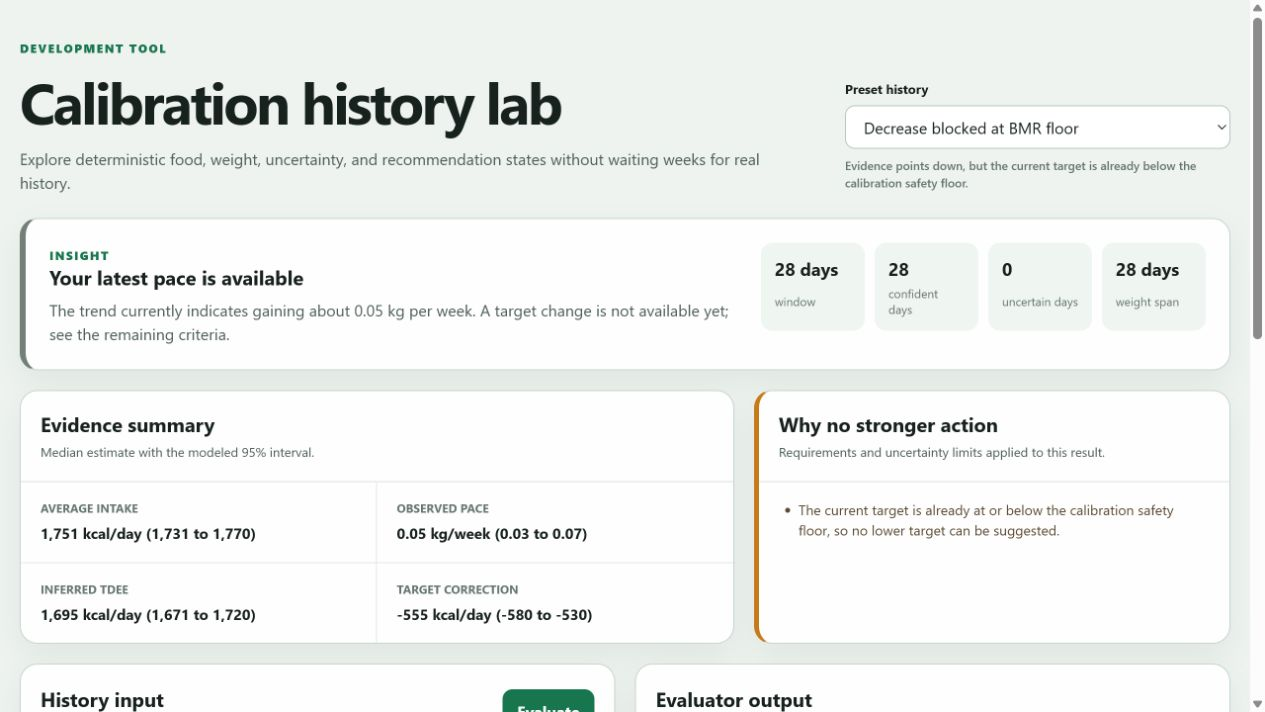
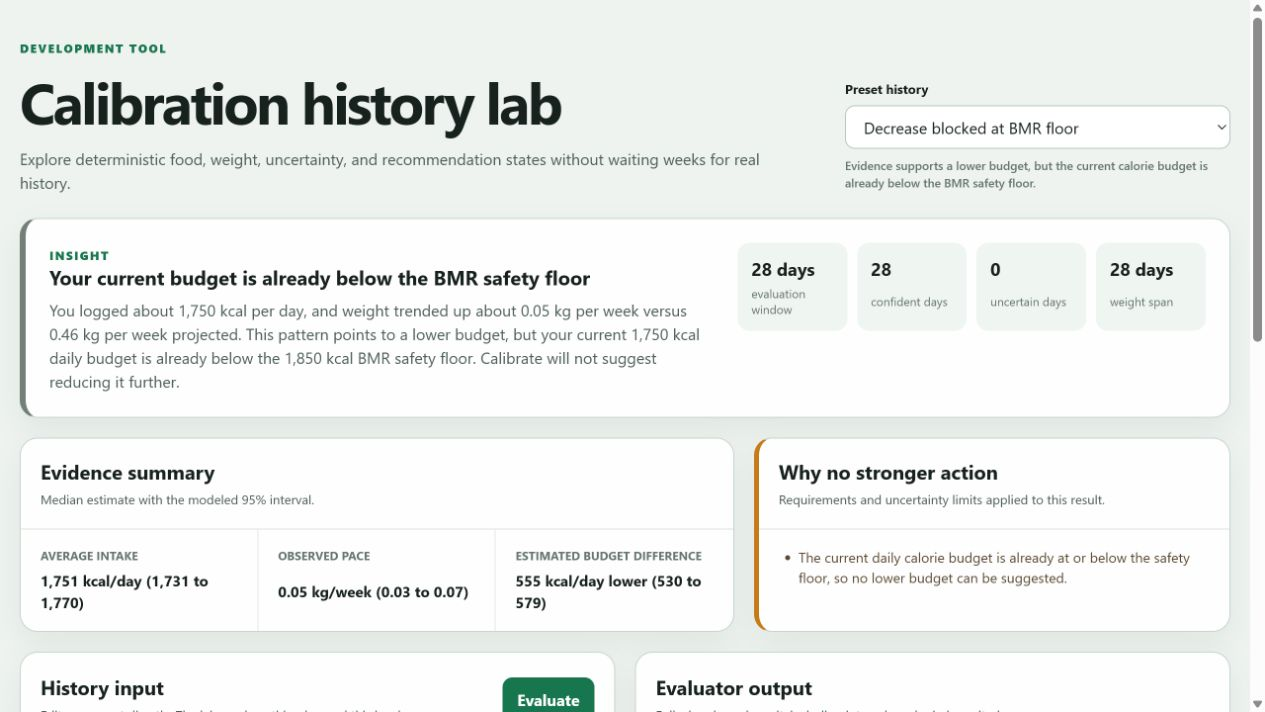
Explain BMR floor blocked insights

diff --git a/shared/calibration.ts b/shared/calibration.ts
@@ -108,6 +108,7 @@ type WindowEvaluation = {
     targetAdjustment: CalibrationInterval | null;
     recommendation: CalibrationRecommendation | null;
     actionable: boolean;
+    safetyFloorBlocked: boolean;
     missingCriteria: string[];
 };
 
@@ -329,6 +330,7 @@ function evaluateWindow(input: CalibrationInput, windowDays: number): WindowEval
             targetAdjustment: null,
             recommendation: null,
             actionable: false,
+            safetyFloorBlocked: false,
             missingCriteria
         };
     }
@@ -362,6 +364,7 @@ function evaluateWindow(input: CalibrationInput, windowDays: number): WindowEval
     const targetAdjustment = interval(adjustmentSamples);
     let recommendation: CalibrationRecommendation | null = null;
     let actionable = false;
+    let safetyFloorBlocked = false;
 
     if (targetAdjustment) {
         const intervalWidth = targetAdjustment.high - targetAdjustment.low;
@@ -384,7 +387,6 @@ function evaluateWindow(input: CalibrationInput, windowDays: number): WindowEval
             missingCriteria.push('Track food and weight across at least 14 days before a target change can be suggested.');
         }
 
-        let floorBlocksDecrease = false;
         if (actionable) {
             const rawStep = targetAdjustment.midpoint - currentAdjustment;
             const boundedStep = clamp(rawStep, -CALIBRATION_MAX_ADJUSTMENT_STEP_KCAL, CALIBRATION_MAX_ADJUSTMENT_STEP_KCAL);
@@ -395,7 +397,7 @@ function evaluateWindow(input: CalibrationInput, windowDays: number): WindowEval
             if (roundedStep < 0) {
                 const maximumDecrease = Math.max(0, currentTarget - minimumTarget);
                 if (maximumDecrease < 25) {
-                    floorBlocksDecrease = true;
+                    safetyFloorBlocked = true;
                     actionable = false;
                 } else {
                     roundedStep = Math.max(roundedStep, -Math.floor(maximumDecrease / 25) * 25);
@@ -416,8 +418,8 @@ function evaluateWindow(input: CalibrationInput, windowDays: number): WindowEval
             }
         }
 
-        if (floorBlocksDecrease) {
-            missingCriteria.push('The current target is already at or below the calibration safety floor, so no lower target can be suggested.');
+        if (safetyFloorBlocked) {
+            missingCriteria.push('The current daily calorie budget is already at or below the safety floor, so no lower budget can be suggested.');
         }
 
         if (hasMinimumHistory && intervalWidth > MAX_ACTIONABLE_INTERVAL_WIDTH_KCAL) {
@@ -441,6 +443,7 @@ function evaluateWindow(input: CalibrationInput, windowDays: number): WindowEval
         targetAdjustment,
         recommendation,
         actionable: actionable && recommendation !== null,
+        safetyFloorBlocked,
         missingCriteria: Array.from(new Set(missingCriteria))
     };
 }
@@ -497,6 +500,13 @@ function describeWeeklyTrend(weeklyKg: number): string {
 function describeProjectedWeeklyTrend(weeklyKg: number): string {
     if (Math.abs(weeklyKg) <= 0.01) return 'staying steady as projected';
     return `${Math.abs(weeklyKg).toFixed(2)} kg per week projected`;
+}
+
+function averageLoggedIntake(input: CalibrationInput, windowDays: number): number {
+    const startDate = addDateDays(input.asOfDate, -(windowDays - 1));
+    const loggedDays = input.foodDays.filter((day) => day.date >= startDate && day.date <= input.asOfDate);
+    if (loggedDays.length === 0) return 0;
+    return Math.round(loggedDays.reduce((sum, day) => sum + day.calories, 0) / loggedDays.length);
 }
 
 /**
@@ -566,7 +576,7 @@ export function evaluateCalibration(input: CalibrationInput): CalibrationResult 
     } else if (recommendation) {
         status = 'recommendation';
         const observedWeekly = selected.weeklyWeightChange?.midpoint ?? 0;
-        const averageIntake = Math.round(selected.averageIntake?.midpoint ?? 0).toLocaleString('en-US');
+        const averageIntake = averageLoggedIntake(input, selected.windowDays).toLocaleString('en-US');
         const budgetDirection = recommendation.adjustmentStepKcal < 0 ? 'lower' : 'higher';
         headline = describeRecommendationPace(observedWeekly, configuredWeeklyWeightChangeKg);
         summary = `You logged about ${averageIntake} kcal per day, and ${describeWeeklyTrend(observedWeekly)} versus ${describeProjectedWeeklyTrend(configuredWeeklyWeightChangeKg)}. This suggests a ${Math.abs(recommendation.adjustmentStepKcal)} kcal ${budgetDirection} daily calorie budget could bring your pace closer to your goal.`;
@@ -574,7 +584,17 @@ export function evaluateCalibration(input: CalibrationInput): CalibrationResult 
         status = 'insight';
         const weekly = selected.weeklyWeightChange?.midpoint ?? 0;
         const direction = weekly < -0.01 ? 'losing' : weekly > 0.01 ? 'gaining' : 'maintaining';
-        if (selected.missingCriteria.length === 0) {
+        if (selected.safetyFloorBlocked) {
+            const averageIntake = averageLoggedIntake(input, selected.windowDays).toLocaleString('en-US');
+            const currentTarget = Math.round(
+                input.profileTdeeKcal - input.configuredDailyDeficitKcal + input.currentTargetAdjustmentKcal
+            );
+            const minimumTarget = Math.round(Math.max(input.bmrKcal, CALIBRATION_MIN_TARGET_KCAL));
+            const floorName = input.bmrKcal >= CALIBRATION_MIN_TARGET_KCAL ? 'BMR safety floor' : 'calorie safety floor';
+            const floorPosition = currentTarget < minimumTarget ? 'below' : 'at';
+            headline = `Your current budget is already ${floorPosition} the ${floorName}`;
+            summary = `You logged about ${averageIntake} kcal per day, and ${describeWeeklyTrend(weekly)} versus ${describeProjectedWeeklyTrend(configuredWeeklyWeightChangeKg)}. This pattern points to a lower budget, but your current ${currentTarget.toLocaleString('en-US')} kcal daily budget is already ${floorPosition} the ${minimumTarget.toLocaleString('en-US')} kcal ${floorName}. Calibrate will not suggest reducing it further.`;
+        } else if (selected.missingCriteria.length === 0) {
             headline = 'Your progress is tracking as expected';
             summary = `The trend currently indicates ${direction} about ${Math.abs(weekly).toFixed(2)} kg per week. The evidence shows progress is consistent with tracking expectations.`;
         } else {

diff --git a/backend/test/calibration-evaluator.test.js b/backend/test/calibration-evaluator.test.js
@@ -161,6 +161,12 @@ test('does not reverse recommendation direction when the current target is below
   assert.equal(result.status, 'insight');
   assert.equal(result.recommendation, null);
   assert.ok(result.missingCriteria.some((criterion) => criterion.includes('at or below')));
+  assert.equal(result.headline, 'Your current budget is already below the BMR safety floor');
+  assert.match(result.summary, /logged about 1,750 kcal per day/);
+  assert.match(result.summary, /weight trended up about 0\.05 kg per week versus 0\.46 kg per week projected/);
+  assert.match(result.summary, /current 1,750 kcal daily budget is already below the 1,850 kcal BMR safety floor/);
+  assert.match(result.summary, /will not suggest reducing it further/);
+  assert.doesNotMatch(result.summary, /more consistent evidence/i);
 });
 
 test('uses singular grammar for one uncertain day', () => {

diff --git a/shared/calibrationScenarios.ts b/shared/calibrationScenarios.ts
@@ -205,7 +205,7 @@ export const CALIBRATION_SCENARIOS: CalibrationScenario[] = [
     {
         id: 'bmr-floor-blocked',
         name: 'Decrease blocked at BMR floor',
-        description: 'Evidence points down, but the current target is already below the calibration safety floor.',
+        description: 'Evidence supports a lower budget, but the current calorie budget is already below the BMR safety floor.',
         input: {
             ...baseInput,
             bmrKcal: 1850,
